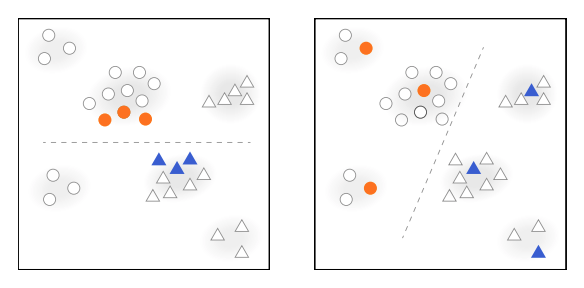
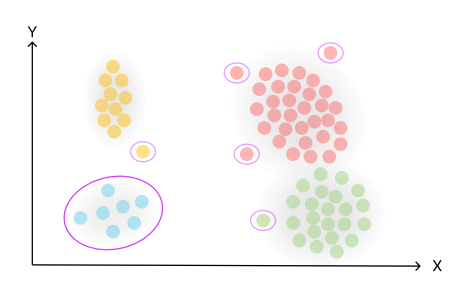
Update pics of icml23

diff --git a/index.html b/index.html
@@ -73,7 +73,8 @@
                 <ul>
                   <li>
                     <b>Current Project: </b>
-                    I developed an adaptive sampling strategy for active learning (AL) for highly unbalanced data sets (< 3% of the positive class in anomalous email detection), which is sample-efficient, able to detect rare anomalies, and can cope 
+                    I developed an adaptive sampling strategy for active learning (AL) that can improve a classifier's performance and assist a human annotator in identifying anomalous data in highly unbalanced data sets (< 3% of the positive class in anomalous email detection), 
+                    which is sample-efficient, able to detect rare anomalies, and can cope 
                     with situations where uncertainty-based sampling AL or only unsupervised anomaly detection fails. The developed technique is being employed at one of the largest financial services companies in Canada. 
                     And I'm currently focusing on incorporating representation learning, self-supervised learning and semi-supervised learning, and interactive human teaching paradigms to improve anomaly email detection systems. 
                     The goal is to efficiently utilize the available unlabeled data 
@@ -104,12 +105,12 @@
         <table style="width:100%;border-spacing:0px;border-collapse:separate;margin-right:auto;margin-left:auto;"><tbody>
 				
 
-          <tr onmouseout="icml_stop()" onmouseover="icml_start()" class="bottom-line">
+          <tr onmouseout="icml_stop()" onmouseover="icml_start()" class="bottom-line" bgcolor="#d9f6ea">
             <td style="padding:20px;width:25%;vertical-align:middle">
               <div class="one">
                 <div class="two" id='icml_image'>
-                  <img src='images/icml23/icml23_after.png' width="160"></div>
-                <img src='images/icml23/icml23_before.png' width="160">
+                  <img src='images/icml23/icml23_before.png' width="160"></div>
+                <img src='images/icml23/icml23_after.png' width="160">
               </div>
               <script type="text/javascript">
                 function icml_start() {
